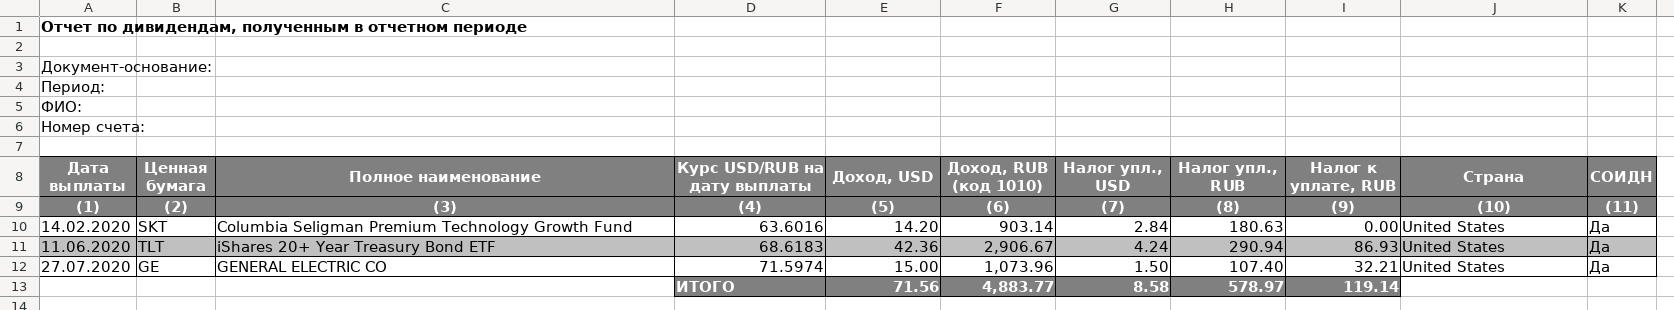
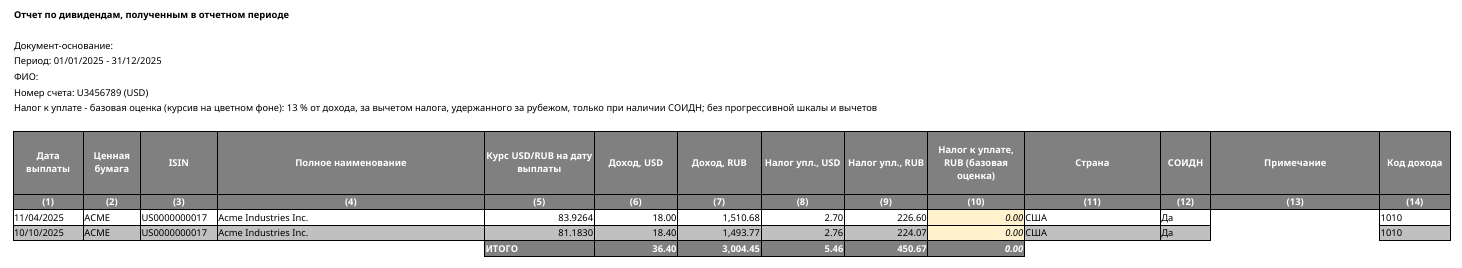
Russian tax guide for IBKR was updated

diff --git a/tools/manual/capture_ru_guide.py b/tools/manual/capture_ru_guide.py
@@ -1,0 +1,153 @@
+#!/usr/bin/env python
+# The pictures and the sample workbook of the Russian 3-NDFL guide (docs/ru-tax-3ndfl), from a copy of the demo
+# database with invented rouble rates and a year of deals on the demo trading account, in the Russian interface.
+# The sheets are drawn by LibreOffice: 'soffice' and 'pdftoppm' have to be on the path.
+import os
+import shutil
+import subprocess
+import sys
+import tempfile
+from decimal import Decimal
+from datetime import datetime, timezone
+
+sys.path.insert(0, os.path.dirname(os.path.abspath(__file__)))
+from demo_env import prepare_environment, assert_demo_database, DEMO_DIR, DOCS_DIR, REPO_DIR
+
+from PySide6.QtCore import QTranslator
+from PySide6.QtGui import QImage
+from PySide6.QtWidgets import QApplication, QMessageBox, QWidget
+
+SUBDIR = "ru_guide"
+GUIDE_DIR = os.path.join(DOCS_DIR, "ru-tax-3ndfl")
+IMG_DIR = os.path.join(GUIDE_DIR, "img")
+WORKBOOK = os.path.join(GUIDE_DIR, "3ndfl_tax_report.xlsx")
+YEAR = 2025
+RUB, USD = 1, 2
+BROKER, ACME = "Northgate Trading", "ACME"
+# RUB value of one USD through 2025, invented: twelve points the weekly rates are drawn between
+USD_RUB = [101.20, 97.80, 89.60, 84.30, 82.10, 79.40, 78.60, 80.30, 81.90, 81.20, 80.90, 78.50]
+# Deals added to the demo account: a purchase, a sale filled in two trades and a purchase again, so that the later
+# sales of the demo database still find their shares
+TRADES = [("2025-03-12 15:45", 3, '121.10', '2.50', "T-101533"), ("2025-09-16 15:20", -12, '130.40', '1.20', "T-103871"),
+          ("2025-09-16 15:21", -16, '130.55', '1.60', "T-103872"), ("2025-10-14 16:10", 12, '129.90', '2.50', "T-104102")]
+SHEETS = {"Сводка": "report_summary", "Акции": "report_2", "Дивиденды": "report_1"}   # sheet: picture
+
+
+def ts(text: str) -> int:
+    layout = "%Y-%m-%d %H:%M" if ' ' in text else "%Y-%m-%d"
+    return int(datetime.strptime(text, layout).replace(tzinfo=timezone.utc).timestamp())
+
+
+def add_guide_data() -> int:
+    from jal.db.db import JalDB
+    from jal.db.asset import JalAsset
+    from jal.db.ledger import Ledger
+    from jal.db.operations import LedgerTransaction
+    rates = []   # a rate a week, as the report takes a rate older than two weeks for a missing one
+    for week in range(53):
+        month, part = divmod(week * 12 / 53, 1)
+        following = USD_RUB[min(int(month) + 1, 11)]
+        rates.append({'timestamp': ts("2025-01-01") + week * 7 * 86400,
+                      'quote': round(Decimal(str(USD_RUB[int(month)] + (following - USD_RUB[int(month)]) * part)), 4)})
+    JalAsset(USD).set_quotes(rates, RUB)
+    account = JalDB._read("SELECT id FROM accounts WHERE name=:name", [(":name", BROKER)])
+    symbol = JalDB._read("SELECT id FROM asset_symbol WHERE symbol=:symbol AND currency_id=:currency",
+                         [(":symbol", ACME), (":currency", USD)])
+    for moment, qty, price, fee, number in TRADES:
+        LedgerTransaction.create_new(LedgerTransaction.Trade, {
+            'timestamp': ts(moment), 'settlement': ts(moment[:10]) + 2 * 86400, 'account_id': account,
+            'symbol_id': symbol, 'qty': Decimal(qty), 'price': Decimal(price), 'fee': Decimal(fee), 'number': number})
+    Ledger().rebuild(from_timestamp=0)
+    return account
+
+
+# The tax dialog filled in as the guide describes, saved as a picture, and the files it writes
+def save_report(parent, declaration: str):
+    from jal.data_export.tax_grouping import Grouping
+    from jal.widgets.tax_widget import TaxWidget, REPORT, FORM
+    widget = TaxWidget(parent)
+    widget.ui.Year.setValue(YEAR)
+    widget.ui.Country.setCurrentIndex(widget.ui.Country.findData('ru'))
+    grouping = widget._editors[('ru', REPORT, 'grouping')]
+    grouping.setCurrentIndex(grouping.findData(Grouping.SaleDay))
+    widget.ui.FormGroup.setChecked(True)
+    widget._editors[('ru', FORM, 'merge_lots')].setChecked(True)
+    widget.ui.XlsFileName.setText(f"3ndfl_{YEAR}.xlsx")
+    widget.ui.FormFileName.setText(f"3ndfl_{YEAR}.de{YEAR % 10}")
+    widget.show()
+    QApplication.processEvents()
+    widget.resize(720, widget.sizeHint().height())
+    QApplication.processEvents()
+    widget.grab().save(os.path.join(IMG_DIR, "report_params.png"))
+    print("saved", os.path.relpath(os.path.join(IMG_DIR, "report_params.png"), REPO_DIR))
+    widget.ui.XlsFileName.setText(WORKBOOK)
+    widget.ui.FormFileName.setText(declaration)
+    widget.SaveReport()
+    widget.close()
+    print("saved", os.path.relpath(WORKBOOK, REPO_DIR))
+
+
+# A sheet of the workbook as a picture: alone in a copy, without its footnotes, the lots of its groups unfolded,
+# fitted to the width of a landscape page, printed to PDF by LibreOffice and cut to its content
+def sheet_picture(sheet_name: str, picture: str, folder: str):
+    import openpyxl
+    book = openpyxl.load_workbook(WORKBOOK)
+    for name in book.sheetnames:
+        if name != sheet_name:
+            del book[name]
+    sheet = book[sheet_name]
+    footnotes = next((x for x in range(1, sheet.max_row + 1) if sheet.cell(x, 1).value == "Описание данных в столбцах таблицы"),
+                     None)
+    if footnotes is not None:
+        sheet.delete_rows(footnotes, sheet.max_row - footnotes + 1)
+    for row in sheet.row_dimensions.values():
+        row.hidden = False
+    sheet.page_setup.orientation = "landscape"
+    sheet.sheet_properties.pageSetUpPr = openpyxl.worksheet.properties.PageSetupProperties(fitToPage=True)
+    sheet.page_setup.fitToWidth, sheet.page_setup.fitToHeight = 1, 0
+    source = os.path.join(folder, picture + ".xlsx")
+    book.save(source)
+    subprocess.run(["soffice", "--headless", "--convert-to", "pdf", "--outdir", folder, source], check=True,
+                   stdout=subprocess.DEVNULL, stderr=subprocess.DEVNULL)
+    subprocess.run(["pdftoppm", "-f", "1", "-l", "1", "-r", "150", "-png", "-singlefile",
+                    os.path.join(folder, picture + ".pdf"), os.path.join(folder, picture)], check=True)
+    image = QImage(os.path.join(folder, picture + ".png"))
+    inked = [(x, y) for y in range(0, image.height(), 2) for x in range(0, image.width(), 2)
+             if image.pixelColor(x, y).lightness() < 245]
+    left, top = min(x for x, _ in inked) - 12, min(y for _, y in inked) - 12
+    right, bottom = max(x for x, _ in inked) + 12, max(y for _, y in inked) + 12
+    image.copy(max(left, 0), max(top, 0), right - max(left, 0), bottom - max(top, 0)).save(os.path.join(IMG_DIR, picture + ".png"))
+    print("saved", os.path.relpath(os.path.join(IMG_DIR, picture + ".png"), REPO_DIR))
+
+
+def main():
+    demo = os.path.join(DEMO_DIR, "jal.sqlite")
+    if not os.path.isfile(demo):
+        sys.exit("No demo database: run tools/manual/make_demo_db.py first")
+    prepare_environment(subdir=SUBDIR)
+    os.makedirs(os.path.join(DEMO_DIR, SUBDIR), exist_ok=True)
+    shutil.copyfile(demo, os.path.join(DEMO_DIR, SUBDIR, "jal.sqlite"))
+    app = QApplication.instance() or QApplication([])
+    from jal.db.db import JalDB, JalDBError
+    error = JalDB().init_db()
+    if error.code != JalDBError.NoError:
+        raise RuntimeError(f"Demo database is not ready: {error.message}")
+    assert_demo_database(SUBDIR)
+    translator = QTranslator()
+    if not translator.load(os.path.join(REPO_DIR, "jal", "languages", "ru.qm")):
+        raise RuntimeError("No Russian translation: run jal/compile_translations first")
+    app.installTranslator(translator)
+    QMessageBox.warning = lambda *args, **kwargs: QMessageBox.Ok   # the report's notices need no answer here
+
+    from jal.widgets.icons import JalIcon
+    JalIcon()   # the country flags of the dialog
+    add_guide_data()
+    parent = QWidget()
+    with tempfile.TemporaryDirectory() as folder:
+        save_report(parent, os.path.join(folder, f"3ndfl_{YEAR}.de{YEAR % 10}"))
+        for sheet_name, picture in SHEETS.items():
+            sheet_picture(sheet_name, picture, folder)
+
+
+if __name__ == "__main__":
+    main()

diff --git a/docs/ru-tax-3ndfl/taxes.md b/docs/ru-tax-3ndfl/taxes.md
@@ -77,51 +77,58 @@
 Сделать это можно с помощью меню *Import->Download quotes...* (в русской версии *Импорт->Загрузить котировки...*), указав необходимый диапазон дат:  
 ![Quotes](https://github.com/titov-vv/jal/blob/master/docs/ru-tax-3ndfl/img/update_quotes.png?raw=true)
    
-10. С помощью *jal* вы можете подготовить как просто расчёт в виде файла Excel, так и автоматически занести данные в файл программы *"Декларация"* (Версии 2020 и 2021 года). 
-Все шаги, связанные с программой *"Декларация"* являются необязательными и вы можете их пропустить.
-      
-11. Для выполнения расчёта вам необходимо выбрать пункт меню *Tax->Investment tax report* (в русской версии *Налоги->Инвестиционный налоговый отчет*) и заполнить параметры в появившемся диалоговом окне:  
+10. С помощью *jal* вы можете подготовить как расчёт в виде файла Excel, так и файл для программы *"Декларация"* (расширение файла содержит последнюю цифру года: `.de5` для 2025 года).
+Все шаги, связанные с программой *"Декларация"*, являются необязательными и вы можете их пропустить.  
+Скриншоты ниже сделаны на демонстрационном счёте с вымышленными данными, поэтому название счёта и бумаги в них отличаются от примера из шагов 1-7.
+
+11. Для выполнения расчёта вам необходимо выбрать пункт меню *Tax->Investment tax report* (в русской версии *Налоги->Инвестиционный налоговый отчет*) и заполнить параметры в появившемся окне:  
 ![Report parameters](https://github.com/titov-vv/jal/blob/master/docs/ru-tax-3ndfl/img/report_params.png?raw=true)  
 Вам необходимо задать:
-    - год за который формируется отчёт (2020)
-    - счёт, который содержит операции, для отчёта (в моём примере *IBKR*)
-    - имя файла Excel, куда будет сохранён отчёт
-    - поставить галочку *Create tax form in "Декларация" file format*, если вы хотите внести данные в файл программы *"Декларация"*
-    - *Output file* - указать имя файла, куда будет сохранена декларация в формате **.dcX*
-    - *Update only information about dividends* - существуют разные практики занесения информации о сделках в декларацию. 
-    Поэтому если вы не хотите, чтобы каждая сделка добавлялась отдельным листом — поставьте эту галочку и в файл будет добавлена лишь информация о дивидендах.
-Нажмите кнопку *OK* - в случае успешного выполнения на диске будут записаны соответствующие файлы
-      
-12. Если вы выбирали обновление файла декларации, то вы можете теперь открыть его с помощью программы *"Декларация"* и проверить, что информация была добавлена на закладку *Доходы за пределами РФ*  
-![Declaration Updated](https://github.com/titov-vv/jal/blob/master/docs/ru-tax-3ndfl/img/declaration_3.png?raw=true)
-    
-13. [Получившийся Excel-файл с расчётом](https://github.com/titov-vv/jal/blob/master/docs/ru-tax-3ndfl/3ndfl_tax_report.xlsx) будет содержать 7 закладок: Дивиденды, Акции, Облигации, ПФИ, Корпоративные события, Комиссии и Проценты. 
-    Некоторые из страниц могут быть пустыми, если у вас не было соответствующих операций в отчётном периоде. Ниже примеры скриншотов для некоторых отчётов:    
-    - Расчёт дивидендов  
-    ![Report Dividends](https://github.com/titov-vv/jal/blob/master/docs/ru-tax-3ndfl/img/report_1.png?raw=true)  
-      Если вы видите N/A в столбце 'Страна' (столбец 10). то это значит страна не была указана для данной бумаги. Это не влияет на расчёт если уплаченный налог (столбец 7) равен нулю, т.к. СОИДН не имеет значения. 
-      В противном случае вам нужно указать страну для ценной бумаги через меню Данные-> Ценные бумаги.
-    - Расчёт сделок с ценными бумагами 
+    - *Страна* - Россия
+    - *Год*, за который формируется отчёт
+    - *Период* - по умолчанию весь год; менять его нужно, только если вы были налоговым резидентом РФ не весь год
+    - *Счета* - в списке показаны инвестиционные счета, по которым в выбранном периоде были налогооблагаемые операции. Можно отметить несколько счетов сразу - тогда они попадут в один отчёт, каждый своим блоком, с общим итогом
+    - *Файл Excel*, куда будет сохранён расчёт
+
+    Раздел *Дополнительные параметры*:
+    - *Не использовать дату поставки для курсов валют* - брать курс ЦБ РФ на дату сделки, а не на дату расчётов
+    - *Группировать сделки в Excel* - расчёт ведётся по ФИФО, поэтому одна продажа может занимать несколько строк: по одной на каждую покупку, которую она закрывает. Группировка сворачивает такие строки под одну строку с суммами, ничего не удаляя (см. шаг 12). Варианты: *Бумага и день продажи*, *Бумага*, *Бумага, день покупки и день продажи*. Итоги отчёта от группировки не зависят
+    - *Создать файл декларации в формате программы "Декларация 2.0"* - поставьте галочку, если хотите получить файл для программы *"Декларация"*, и укажите его имя в поле *Файл с результатом*. Для этого у счёта нужно указать страну и брокера (см. шаг 3). Внутри этого блока:
+        - *Обновить только информацию о дивидендах* - существуют разные практики занесения информации о сделках в декларацию. Если вы не хотите, чтобы сделки попадали в файл, поставьте эту галочку - в файл будет добавлена лишь информация о дивидендах, а суммы по сделкам вы внесёте вручную из итогов расчёта
+        - *Использовать название брокера как источник выплаты* - указывать источником дохода брокера, а не эмитента бумаги
+        - *Объединять лоты одной бумаги, проданные в один день* - записывать в файл одну строку на все такие лоты вместо строки на каждый лот. У них одна дата получения дохода и один курс, поэтому в строке декларации ничего не теряется, а строк становится меньше. Расчёт в Excel при этом остаётся подробным
+
+    Нажмите кнопку *Сохранить отчёт*. Расчёт занимает некоторое время: *jal* заново проходит всю историю сделок по правилам НК РФ, ход выполнения виден в строке состояния. Если для расчёта не хватает курса валюты или котировки, *jal* остановится и перечислит недостающие даты - загрузите их (шаг 9) и сохраните отчёт снова.
+
+12. [Получившийся Excel-файл с расчётом](https://github.com/titov-vv/jal/blob/master/docs/ru-tax-3ndfl/3ndfl_tax_report.xlsx) содержит по одному листу на каждый вид дохода: *Сводка, Акции, Облигации, ПФИ, Дивиденды, Проценты, Криптовалюты, Криптодоход, Комиссии* и *Не отражено*.
+    Лист, для которого не было операций, в файл не попадает. Под заголовком каждого листа перечислены правила, по которым он построен: как сопоставлены сделки, какой курс использован, что считается расходом.
+    - *Сводка* - итоги по каждой налоговой базе (ценные бумаги, ПФИ, дивиденды, проценты и т.д.), количество операций, которые не попали ни на один лист, базовая оценка налога и предупреждения. Начинать проверку стоит с этого листа.  
+    ![Report Summary](https://github.com/titov-vv/jal/blob/master/docs/ru-tax-3ndfl/img/report_summary.png?raw=true)
+    - *Акции* - сделки с акциями и паями, завершённые в отчётном году. На скриншоте включена группировка *Бумага и день продажи*, а группа раскрыта: строка, выделенная жирным шрифтом, - это сумма по трём лотам, проданным 16/09/2025 двумя сделками; под ней - сами лоты с номерами сделок, по которым их можно сверить с отчётом брокера. В файле группы свёрнуты - их раскрывает значок *+* слева от строки (или кнопка *2* над ним - для всех групп сразу).
+    Именно такая строка с суммами попадает в файл декларации, если включено объединение лотов. Листы *Облигации* и *ПФИ* устроены так же (облигации не группируются).  
     ![Report Deals](https://github.com/titov-vv/jal/blob/master/docs/ru-tax-3ndfl/img/report_2.png?raw=true)
-    - Расчёт сделок с производными финансовыми инструментами
-    ![Report Derivatives](https://github.com/titov-vv/jal/blob/master/docs/ru-tax-3ndfl/img/report_3.png?raw=true)
-    - Расчёт комиссий и прочих операций  
-    ![Report Fees](https://github.com/titov-vv/jal/blob/master/docs/ru-tax-3ndfl/img/report_4.png?raw=true)
-    - Расчёт по корпоративным событиям  
-    ![Report Corporate Actions](https://github.com/titov-vv/jal/blob/master/docs/ru-tax-3ndfl/img/report_5.png?raw=true)
+    - *Дивиденды* - дивиденды, налог, удержанный у источника, признак наличия СОИДН и базовая оценка налога к доплате.  
+    ![Report Dividends](https://github.com/titov-vv/jal/blob/master/docs/ru-tax-3ndfl/img/report_1.png?raw=true)  
+      Если источником дохода в файле декларации указывается эмитент (галочка *Использовать название брокера как источник выплаты* снята), а страна бумаги не задана, дивиденд по ней не попадёт в файл (сообщение об этом будет в журнале) - укажите страну в справочнике ценных бумаг (меню *Данные*) и сохраните отчёт снова.
+    - *Проценты* - проценты, выплаченные брокером, и денежные выплаты по корпоративным событиям; *Комиссии* - комиссии, не связанные со сделками (например, депозитарные). Комиссии не входят ни в одну налоговую базу - учитывать ли их и как, решать вам.
+    - *Не отражено* - налогооблагаемые операции, для которых в *jal* пока нет листа, и операции, которые отчёт пропускает по правилу (с указанием причины). Если этот лист есть, его обязательно нужно прочитать: эти операции придётся учесть вручную.
 
+    В последнем столбце каждого листа указан код дохода и код вычета по справочнику ФНС. Суммы, которые являются оценкой *jal*, а не данными брокера (налог к доплате), выделены курсивом на светлом фоне - это ориентир, а не сумма налога к уплате.
+    Короткие продажи отражаются в году продажи; короткая позиция по акциям, не закрытая до конца года, показывается без расхода на приобретение, а по остальным инструментам *jal* выдаёт предупреждение и её нужно проверить вручную.
+    Подробное описание листов, кодов, базовой оценки, коротких продаж и того, как отчёт трактует обмены и корпоративные события, есть в [руководстве пользователя](https://titov-vv.github.io/jal/manual/11-taxes) (на английском языке).
 
-### dcmerge
+13. Если вы создавали файл декларации, то теперь можете открыть его с помощью программы *"Декларация"* и проверить, что информация была добавлена на закладку *Доходы за пределами РФ* (скриншот сделан в одной из предыдущих версий программы):  
+![Declaration Updated](https://github.com/titov-vv/jal/blob/master/docs/ru-tax-3ndfl/img/declaration_3.png?raw=true)  
+В файл попадают дивиденды, сделки с акциями, облигациями и ПФИ и проценты; операции с криптовалютой в него пока не записываются.
+Сверьте итоги в программе с итогами листов Excel - особенно если вы включали объединение лотов.  
+Если часть декларации вы подготовили отдельно (например, в самой программе *"Декларация"* или по каждому счёту в отдельности), файлы можно объединить: пункт меню *Tax->Merge Russian tax files (\*.de5)* (в русской версии *Налоги->Объединить файлы налоговой декларации (\*.de5)*). Добавьте файлы, укажите имя итогового файла и нажмите *OK* - доходы за пределами РФ будут собраны из всех файлов, остальные разделы будут взяты из наиболее полно заполненного файла.
+Для счетов, которые ведутся в *jal*, проще отметить их все в одном отчёте (шаг 11).
 
-Если вы ранее уже подготовили декларацию в программе "Декларация 2021", то можно объединить её с файлом, сгенерированным Jal.
+14. Перед подачей декларации:
+    - убедитесь, что загружены курсы валют за весь год (шаг 9) и что на листе *Сводка* нет предупреждений;
+    - прочитайте лист *Не отражено*, если он есть;
+    - проверьте, что остатки по счёту в *jal* совпадают с отчётом брокера - это признак того, что данные загружены полностью;
+    - проверьте корпоративные события (шаг 8);
+    - сохраните у себя файлы, которые подаёте: *jal* каждый раз рассчитывает отчёт заново по текущим данным и не хранит копию того, что было сформировано раньше.
 
-Утилита находится в репозитории https://github.com/titov-vv/dcmerge.
-
-Пример запуска:
-```
-./dcmerge.py -b 2021-nodividends.dc1 -a 2021-dividends.dc1 -o 2021.dc1
-```
-
-Здесь первый файл `2021-nodividends.dc1` заполнен в "Декларация 2021", а второй `2021-dividends.dc1` - сгенерирован Jal.
-
-Запуск добавляет иностранные дивиденды из второго файла в первый и сохраняет результат в `2021.dc1`.
+    *jal* не является налоговым консультантом: проверьте полученные цифры и то, как они должны быть отражены в декларации, прежде чем её подавать.

diff --git a/tools/manual/README.md b/tools/manual/README.md
@@ -21,6 +21,18 @@ one). They need no desktop session: Qt runs on the `offscreen` platform.
 | `make_demo_db.py` | Builds the demo database from nothing: residence, peers, categories, tags, accounts, assets, quotes, twenty months of household operations, a trading account, a crypto wallet and a term deposit. |
 | `capture.py` | Opens the real main window against that database and saves each picture the manual uses, then `capture_readme()` adds the two the project README needs on top of them. `capture_first_run.py` does the same against an empty database. |
 
+## The Russian 3-NDFL guide
+
+```bash
+python tools/manual/capture_ru_guide.py   # docs/ru-tax-3ndfl: 4 pictures + 3ndfl_tax_report.xlsx
+```
+
+The report half of `docs/ru-tax-3ndfl/taxes.md` is illustrated from the same demo ledger. The script works on a
+copy of it (`tools/manual/demo/ru_guide/`), adds invented rouble rates and a year of deals to the demo trading
+account, and saves the tax dialog in the Russian interface, the sample workbook and three of its sheets as
+pictures. The sheets are printed by LibreOffice, so `soffice` and `pdftoppm` have to be installed. The pictures
+of the guide's import steps and of the "Декларация" program are older hand-made screenshots.
+
 `docs/manual/img/jal_logo.png` is the only picture that is not generated - it is a copy of
 `docs/img/jal_logo.png` and has to be copied again if the images folder is ever emptied.
 
